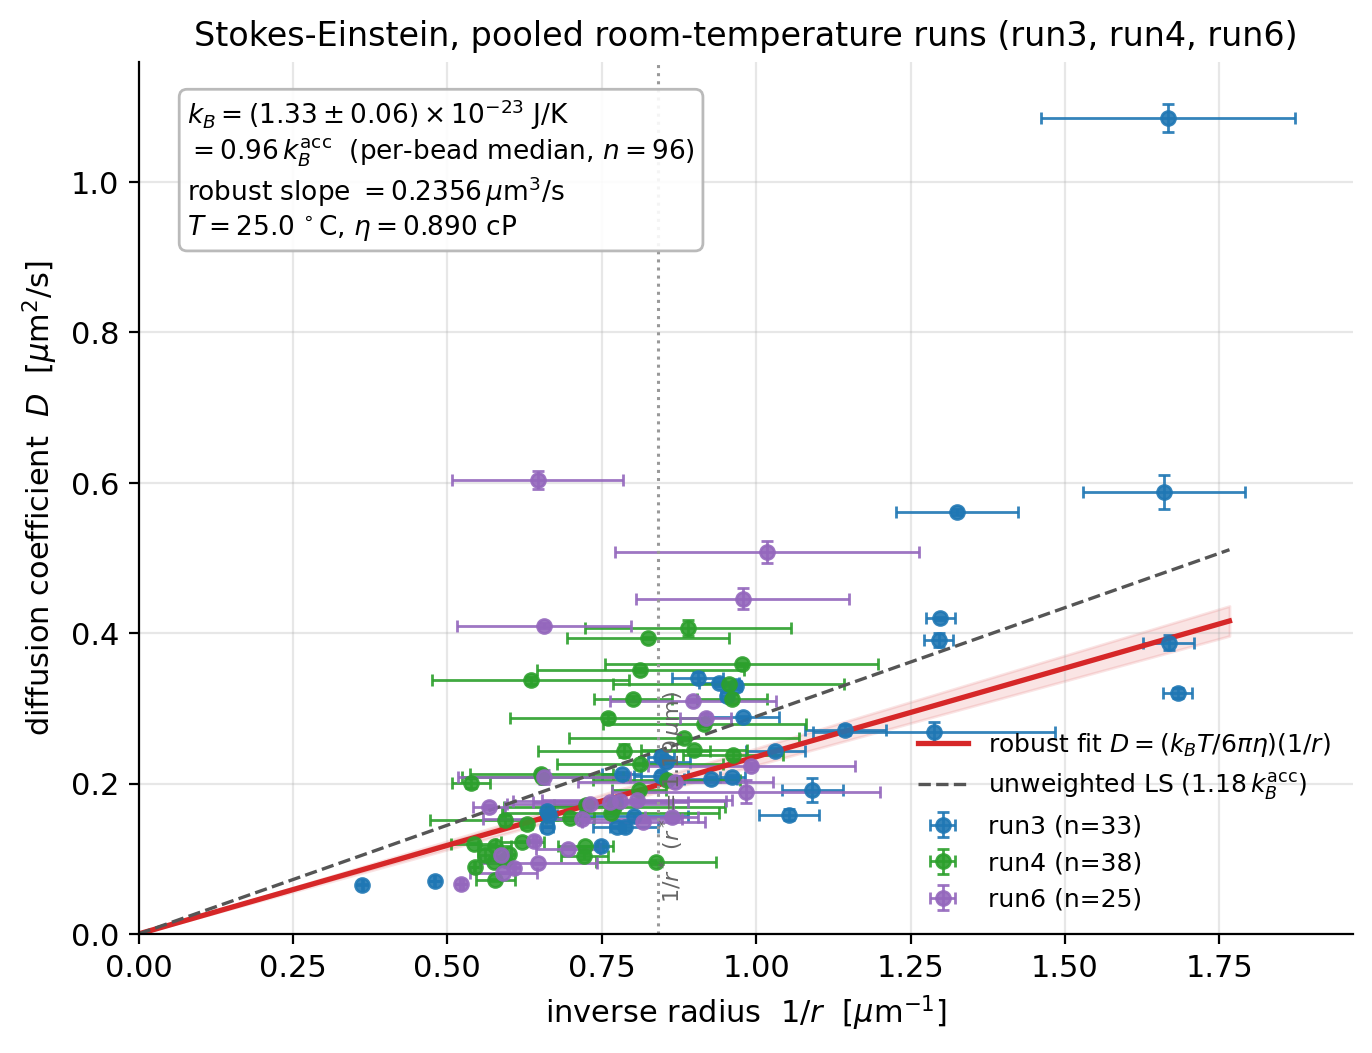
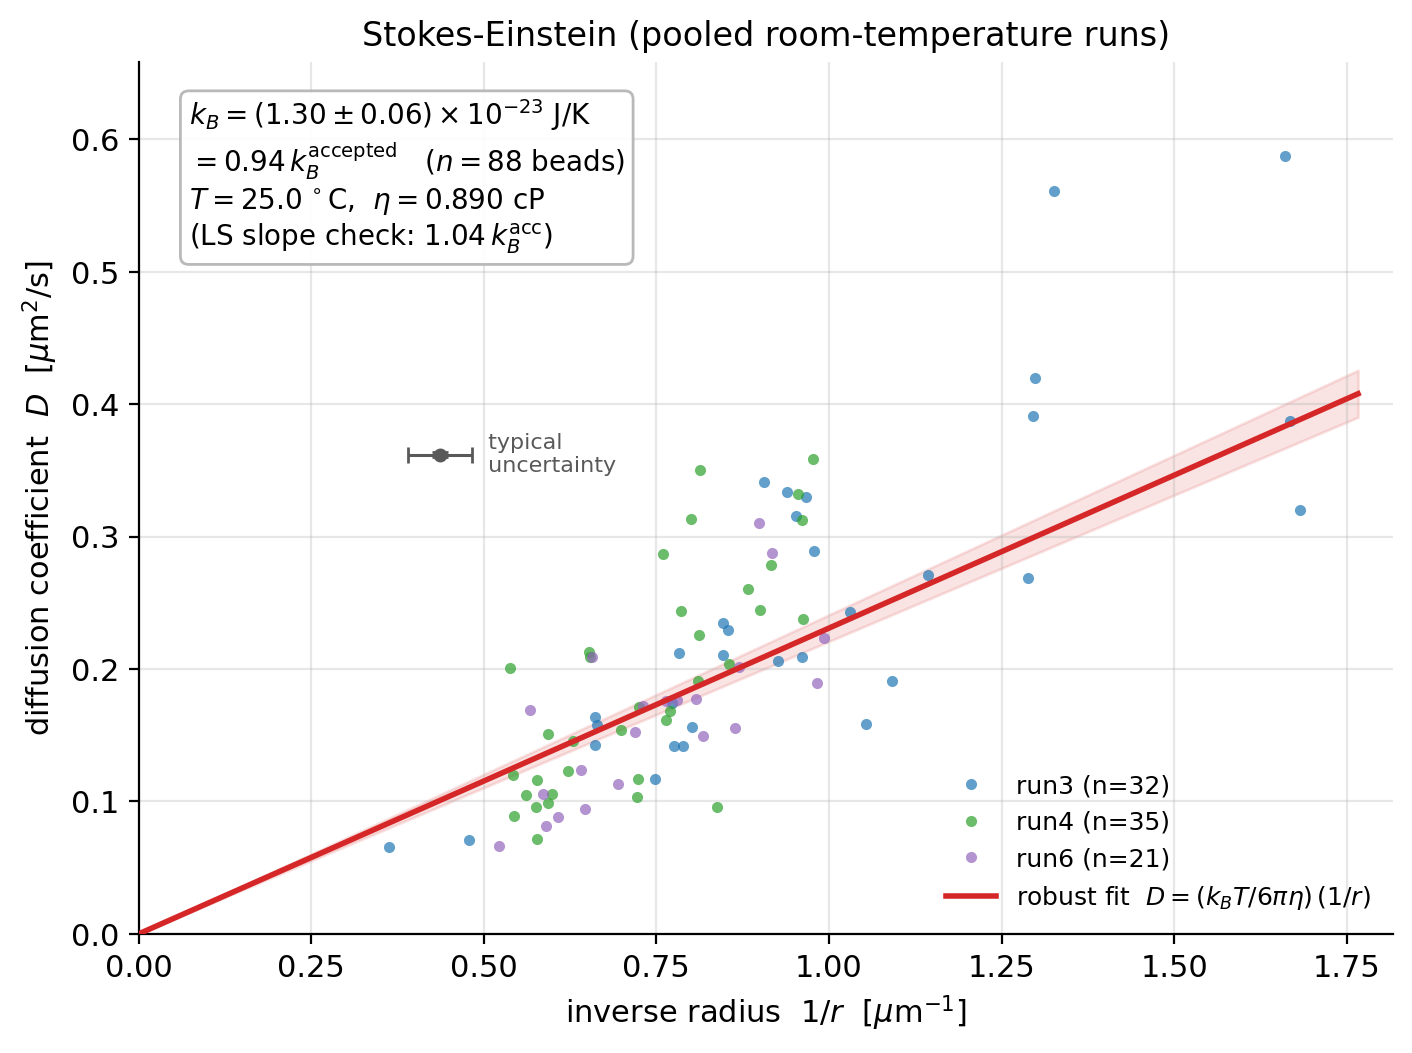
Declutter pooled plot2: clean scatter, robust outlier cut, single fit line

diff --git a/experiments/week1-system-calibration/report/plot2_pooled.py b/experiments/week1-system-calibration/report/plot2_pooled.py
@@ -65,6 +65,8 @@ def main():
     ap.add_argument("--exclude-hindered", action="store_true",
                     help="drop wall-hindered beads (r > r*) from the fit; by "
                          "default every clean bead is kept as data")
+    ap.add_argument("--mad-k", type=float, default=3.5,
+                    help="robust D*r outlier cut in MAD units (mislink removal)")
     ap.add_argument("--out", default=None)
     args = ap.parse_args()
 
@@ -77,6 +79,17 @@ def main():
     df = pd.concat([p2.load_beads(r) for r in args.runs], ignore_index=True)
     df["inv_r"] = 1.0 / df["r_um"]
     df["inv_r_err"] = df["r_err_um"] / df["r_um"] ** 2
+
+    # Drop gross mislinks: under Stokes-Einstein D*r is ~constant, so a robust
+    # MAD cut on D*r removes the handful of beads whose tracked D is physically
+    # impossible (bad links / merges) without touching the genuine scatter.
+    k = (df["D_um2_s"] * df["r_um"]).values
+    med = np.median(k)
+    mad = np.median(np.abs(k - med))
+    n_raw = len(df)
+    if mad > 0:
+        df = df[np.abs(k - med) <= args.mad_k * mad].copy()
+    n_drop = n_raw - len(df)
 
     # By default ALL clean beads are part of the data and the fit; r* is kept
     # only as a reference line. --exclude-hindered restores the free-only fit.
@@ -118,8 +131,8 @@ def main():
     print(f"\npooled {args.runs}: T={args.T:.1f}C  eta={eta_cP:.3f}cP  "
           f"r*={r_star:.2f}um  "
           f"hindered={'excluded' if args.exclude_hindered else 'kept'}")
-    print(f"beads: total clean={len(df)}  free(fit)={n}  "
-          f"hindered={len(hindered)}")
+    print(f"beads: kept={len(df)} (dropped {n_drop} D*r mislink outliers)  "
+          f"fit n={n}  hindered={len(hindered)}")
     for r in args.runs:
         g = free[free["run"] == r]
         if len(g):
@@ -134,61 +147,53 @@ def main():
 
     # ---- figure ----
     p2.set_style()
-    fig, ax = plt.subplots(figsize=(7.0, 5.4))
+    fig, ax = plt.subplots(figsize=(7.2, 5.4))
 
+    # run-coloured points, no per-point error bars (a single representative bar
+    # is drawn in the corner instead, so the cloud reads cleanly)
     for r in args.runs:
         g = free[free["run"] == r]
         if not len(g):
             continue
-        ax.errorbar(g["inv_r"], g["D_um2_s"],
-                    xerr=g["inv_r_err"], yerr=g["D_err"],
-                    fmt="o", ms=5, capsize=2, lw=1,
-                    color=RUN_COLORS.get(r, "#444444"),
-                    ecolor=RUN_COLORS.get(r, "#444444"), alpha=0.9,
-                    label=f"{r} (n={len(g)})")
+        ax.plot(g["inv_r"], g["D_um2_s"], "o", ms=4, alpha=0.7,
+                color=RUN_COLORS.get(r, "#444444"), mec="none",
+                label=f"{r} (n={len(g)})")
 
-    if args.exclude_hindered and len(hindered):
-        ax.errorbar(hindered["inv_r"], hindered["D_um2_s"],
-                    xerr=hindered["inv_r_err"], yerr=hindered["D_err"],
-                    fmt="s", mfc="none", mec="#999999", ms=4, capsize=2,
-                    lw=0.8, ecolor="#dddddd",
-                    label=rf"wall-hindered $r>r^*$ (excl., n={len(hindered)})")
-
-    x_line = np.array([0.0, free["inv_r"].max() * 1.05])
     # headline: robust (per-bead median) through-origin line + SE band
-    ax.plot(x_line, slope * x_line, "-", color="#d62728", lw=1.9,
-            label=r"robust fit $D=(k_BT/6\pi\eta)(1/r)$")
+    x_line = np.array([0.0, free["inv_r"].max() * 1.05])
+    ax.plot(x_line, slope * x_line, "-", color="#d62728", lw=2.0, zorder=5,
+            label=r"robust fit  $D=(k_BT/6\pi\eta)\,(1/r)$")
     ax.fill_between(x_line, (slope - slope_err) * x_line,
                     (slope + slope_err) * x_line,
-                    color="#d62728", alpha=0.12)
-    # diagnostic: ordinary unweighted least-squares through origin
-    ax.plot(x_line, slope_ols * x_line, "--", color="#555555", lw=1.2,
-            label=f"unweighted LS ({kbx(slope_ols):.2f}$\\,k_B^{{\\rm acc}}$)")
-    # reference: sedimentation scale r* (1/r*), where wall hindrance sets in
-    if 0 < r_star:
-        ax.axvline(1.0 / r_star, color="0.6", ls=":", lw=1.1)
-        ax.text(1.0 / r_star, ax.get_ylim()[1] * 0.02,
-                rf"  $1/r^*$ ($r^*={r_star:.2f}\,\mu$m)", color="0.4",
-                fontsize=8, rotation=90, va="bottom", ha="left")
+                    color="#d62728", alpha=0.13, zorder=1)
 
     ax.set_xlabel(r"inverse radius  $1/r$  [$\mu$m$^{-1}$]")
     ax.set_ylabel(r"diffusion coefficient  $D$  [$\mu$m$^2$/s]")
-    ax.set_xlim(left=0)
-    ax.set_ylim(bottom=0)
-    ax.set_title("Stokes-Einstein, pooled room-temperature runs "
-                 f"({', '.join(args.runs)})")
+    ax.set_xlim(left=0.0, right=free["inv_r"].max() * 1.08)
+    ax.set_ylim(bottom=0.0, top=free["D_um2_s"].max() * 1.12)
+    ax.set_title("Stokes-Einstein (pooled room-temperature runs)")
+
+    # one representative error bar in the empty centre-left region
+    xr, yr = ax.get_xlim(), ax.get_ylim()
+    ex = float(np.median(free["inv_r_err"]))
+    ey = float(np.median(free["D_err"]))
+    ex0, ey0 = xr[1] * 0.24, yr[1] * 0.55
+    ax.errorbar([ex0], [ey0], xerr=ex, yerr=ey, fmt="o", ms=4,
+                color="0.35", ecolor="0.35", capsize=3, lw=1.1)
+    ax.text(ex0 + ex * 1.3, ey0, " typical\n uncertainty", color="0.35",
+            fontsize=8, ha="left", va="center")
 
     ratio = kB / p2.K_B_ACCEPTED
     txt = (rf"$k_B = ({kB*1e23:.2f}\pm{kB_err*1e23:.2f})\times10^{{-23}}$ J/K"
            "\n"
-           rf"$= {ratio:.2f}\,k_B^{{\rm acc}}$  (per-bead median, $n={len(free)}$)"
+           rf"$= {ratio:.2f}\,k_B^{{\rm accepted}}$   ($n={len(free)}$ beads)"
            "\n"
-           rf"robust slope $={slope:.4f}\,\mu$m$^3$/s"
+           rf"$T={args.T:.1f}\,^\circ$C,  $\eta={eta_cP:.3f}$ cP"
            "\n"
-           rf"$T={args.T:.1f}\,^\circ$C, $\eta={eta_cP:.3f}$ cP")
+           rf"(LS slope check: ${kbx(slope_ols):.2f}\,k_B^{{\rm acc}}$)")
     ax.text(0.04, 0.96, txt, transform=ax.transAxes, va="top", ha="left",
-            fontsize=9.5,
-            bbox=dict(boxstyle="round", fc="white", ec="0.7", alpha=0.9))
+            fontsize=10,
+            bbox=dict(boxstyle="round", fc="white", ec="0.7", alpha=0.92))
     ax.legend(loc="lower right", fontsize=9)
     fig.tight_layout()
 
